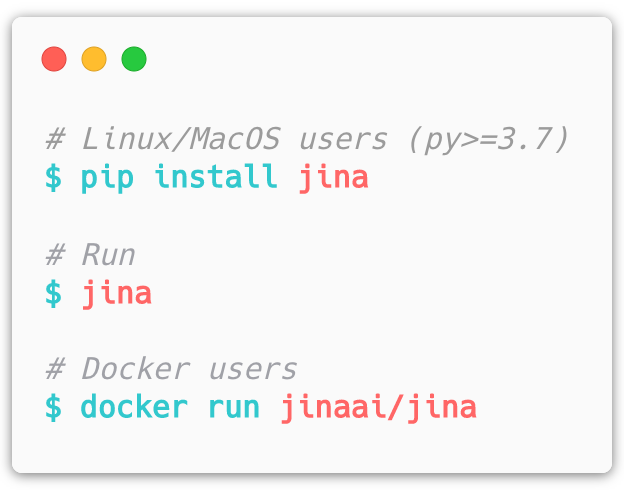
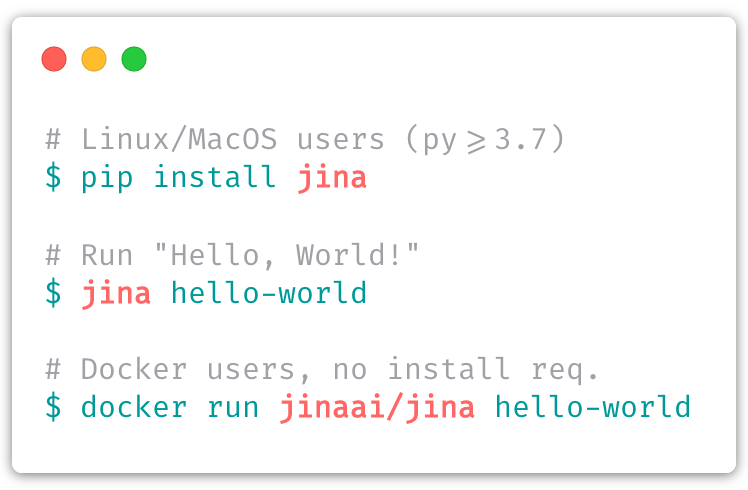
fix: devel docker build

diff --git a/jina/resources/helloworld.html b/jina/resources/helloworld.html
@@ -20,7 +20,9 @@
 max-width: 50%;
 padding: 10px;">
     <h2 style="color: #1E6E73">What just happened?</h2>
-    <span>This is Jina's <pre style="display: inline;">hello-world</pre>, end-to-endly. It downloads Fashion-MNIST dataset and indexes 50,000 images via Jina search framework. The index is stored into multiple <i>shards</i>. We then randomly sample unseen images as <i>Queries</i>, ask Jina to retrieve relevant results. Below is Jina's retrievals, where the left-most column is query image. </span>
+    <span>This is Jina's <pre style="display: inline;">hello-world</pre>, end-to-endly. It downloads Fashion-MNIST dataset and indexes 60,000 images via Jina search framework. The index is stored into multiple <i>shards</i>. We then randomly sample unseen images as <i>Queries</i>, ask Jina to retrieve relevant results. Below is Jina's retrievals, where the left-most column is query image. </span>
+    <br>
+    <span>Intrigued? Learn more about Jina and checkout our Github!</span>
 </div>
 <hr style="border: 1px dashed #009999;">
 

diff --git a/README.md b/README.md
@@ -90,7 +90,98 @@ We provide a universal Jina image (only 80MB!) that can be run on multiple archi
 docker run jinaai/jina
 ```
 
+## Jina "Hello, World!"
+
+As a starter, we invite you to try Jina's "Hello, World": a simple demo of image neural search for [Fashion-MNIST](https://hanxiao.io/2018/09/28/Fashion-MNIST-Year-In-Review/). No more extra dependencies, simply do:
+
+```bash
+jina hello-world
+```
+
+For Docker users:
+
+```bash
+docker run -v "$(PWD)/j:/j" jinaai/jina:devel hello-world --workdir /j --logserver && open j/hello-world.html
+```
+
+<details>
+<summary>Click here to see the console output</summary>
+
+<p align="center">
+  <img src=".github/hello-world-demo.svg?raw=true" alt="hello world console output">
+</p>
+
+</details>  
+
+This downloads Fashion-MNIST training and test sets and tells Jina *indexes* 60,000 images from the training set. Then, it randomly samples images from the test set as *queries*, asks Jina to retrieve relevant results. All big words you can name: computer vision, neural IR, microservice, message queue, elastic, replicas & shards happened in just one minute!
+
+After 1 minute, it will open a webpage and show results like this:
+
+<p align="center">
+  <img src=".github/hello-world.gif?raw=true" alt="Jina banner">
+</p>
+
+And the implementation behind? As simple as it should be:
+
+<table>
+<tr>
+<td> Python API </td>
+<td>
+
+```python
+from jina.flow import Flow
+
+f = Flow().load_config('index.yml')
+with f.build() as fl:
+    fl.index(raw_bytes=input_fn)
+```
+
+</td>
+</tr>
+<tr>
+<td> <pre>index.yml</pre> </td>
+<td>
+
+```yaml
+!Flow
+pods:
+  chunk_seg:
+    yaml_path: helloworld.crafter.yml
+    replicas: $REPLICAS
+    read_only: true
+  doc_idx:
+    yaml_path: helloworld.indexer.doc.yml
+  encode:
+    yaml_path: helloworld.encoder.yml
+    needs: chunk_seg
+    replicas: $REPLICAS
+  chunk_idx:
+    yaml_path: helloworld.indexer.chunk.yml
+    replicas: $SHARDS
+    separated_workspace: true
+  join_all:
+    yaml_path: _merge
+    needs: [doc_idx, chunk_idx]
+    read_only: true
+```
+
+</td>
+</tr>
+</table>
+
+
+Intrigued? Play with different arguments via:
+
+```bash
+jina hello-world --help
+```
+
+Make sure to continue on our Jina 101 Guide - understanding all key concepts of Jina in 3 minutes!  
+
+
 ## Getting Started
+
+  
 
 ||||
 |---|---|---|
